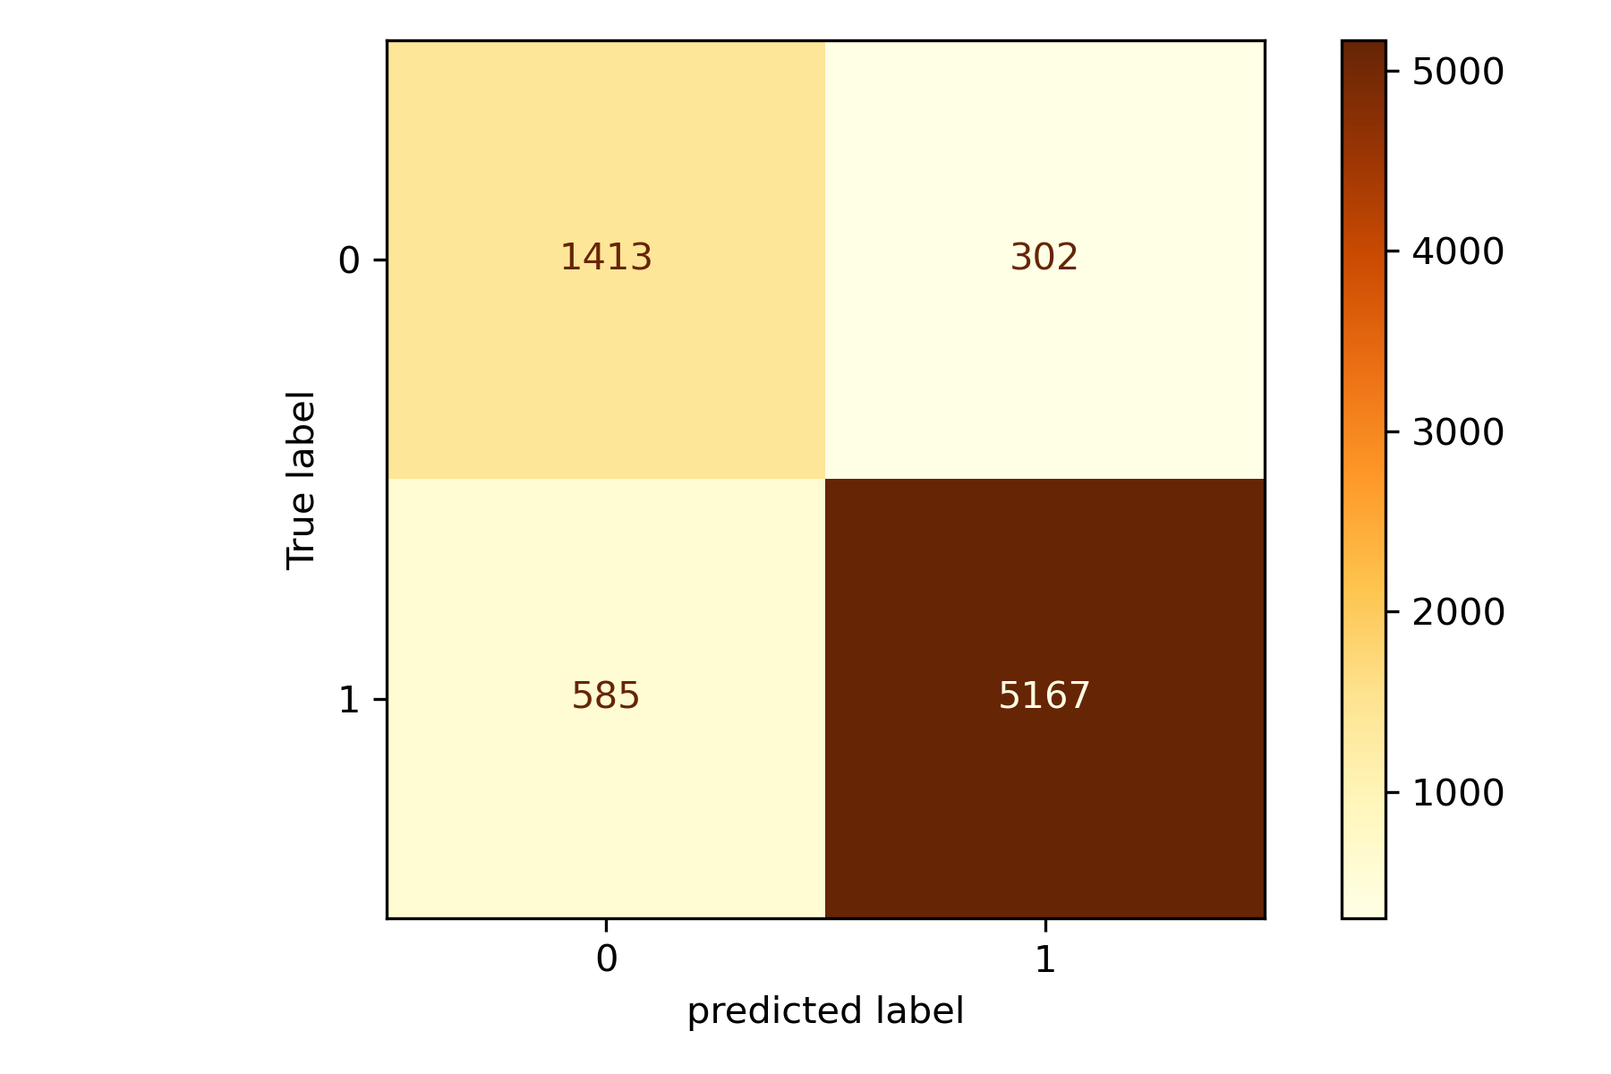
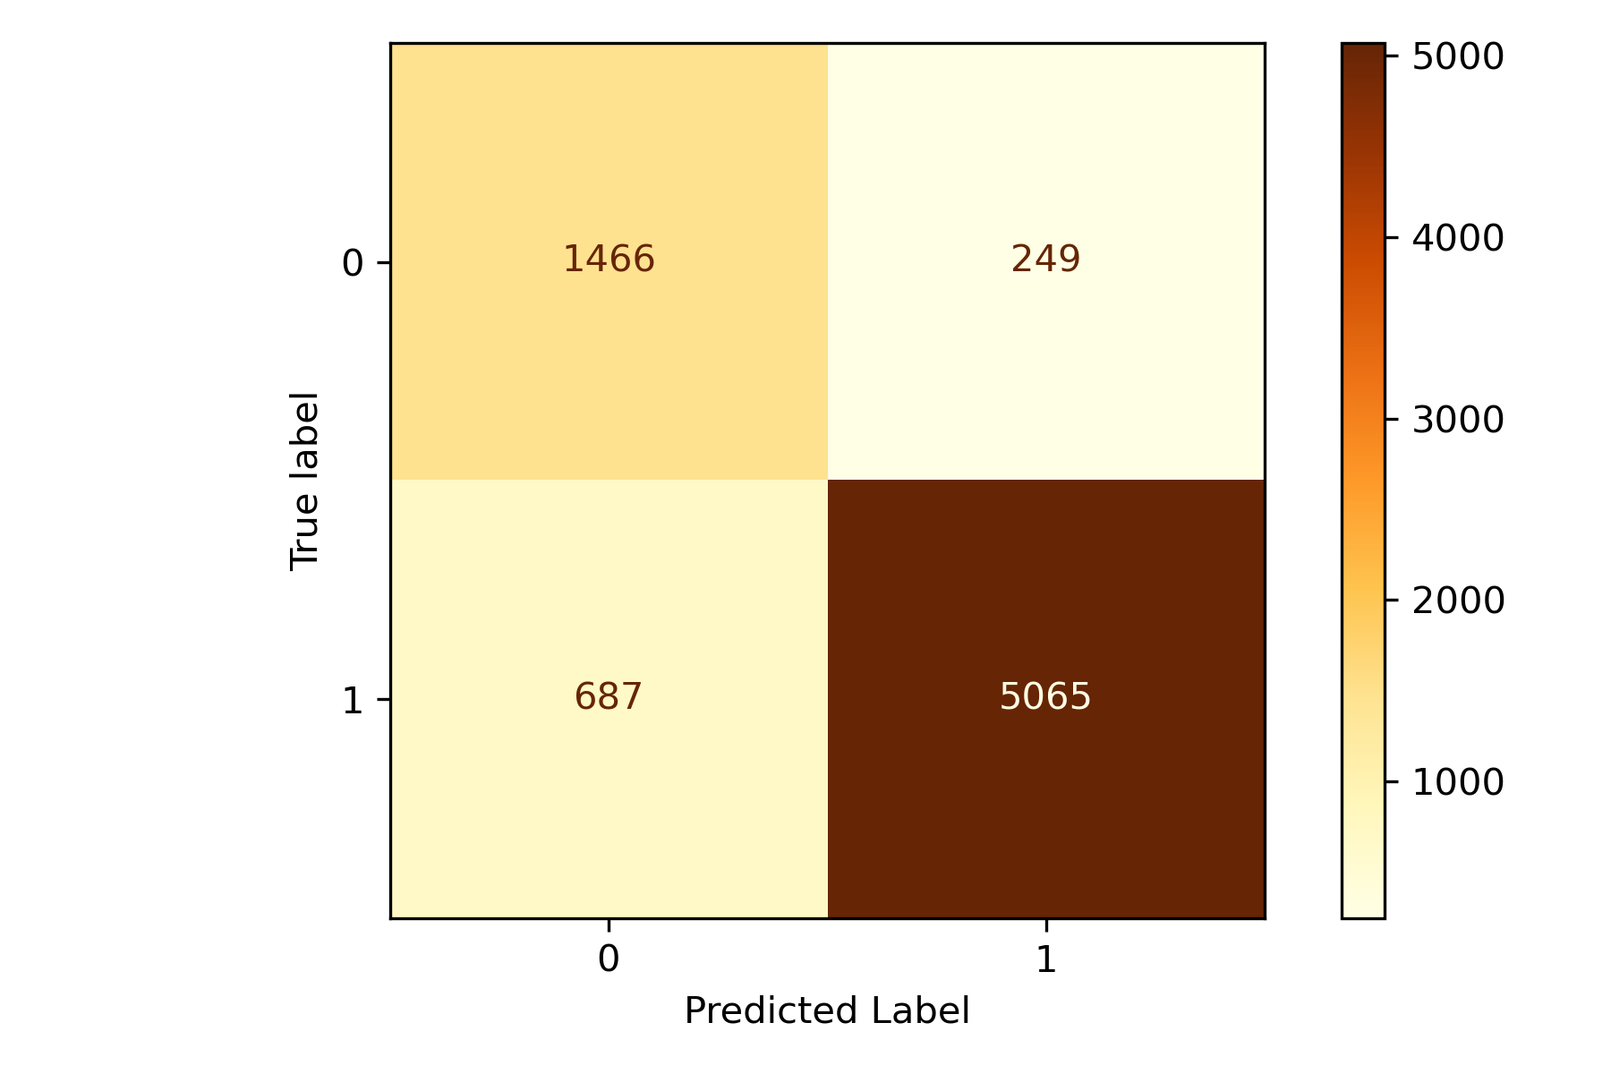
First Draft Complete

diff --git a/content/posts/ml/classification.md b/content/posts/ml/classification.md
@@ -1,5 +1,5 @@
-Title: Predict a Product Rating Using Only the Review’s Text
-Subtitle: Utilize Machine Learning Classification Models on Text to Classify Product Reviews
+Title: A Comprehensive Guide to Binary Classification
+Subtitle: How to Properly Build a Machine Learning Classification Model on Text to Classify Product Reviews
 Date: 2022-01-22
 Modified: 2022-01-22
 Status: draft
@@ -20,11 +20,51 @@ There are two general types of supervised machine learning outcomes in their sim
 
 You want to take several steps when preparing data for machine learning. You want to clean the data removing unwanted characters or numbers, you want to remove stop words, or words that appear too frequently, and you also should *stem*, or *lemmatize* words, which takes words such as *running* and *runs* and brings them to their root form of *run*. Additionally, you might want to create new columns or features that aid your machine learning classification process. For this example, we will use the dataset of [Women’s E-Commerce Clothing Reviews on Kaggle](https://www.kaggle.com/nicapotato/womens-ecommerce-clothing-reviews).
 
-Before we start cleaning, let's import the data and create a few key features:
+As always, let's load all the libraries we need to perform this analysis:
 
-1. Since we're performing binary classification, our **target** variable needs to be `1` or `0`. In a five-star review system, we can take the `4` and `5` star reviews and make them **positive** and then let the remainder, `1`, `2`, and `3` star reviews be **negative**.
-2. This particular set of reviews has both a **title* and a *body**. We can combine these two columns into a single new column called **Text**to simplify our processing.
-3. As another feature in our model, we can create a new column representing the review text's **total length**.
+```python
+# Gereral Imports
+import numpy as np
+import pandas as pd
+import re
+import string
+from timeit import timeit
+
+# Machine Learning Imports
+from sklearn.model_selection import train_test_split
+from sklearn.metrics import ConfusionMatrixDisplay
+from sklearn.feature_extraction.text import TfidfVectorizer
+from sklearn import metrics 
+from sklearn.model_selection import cross_val_score
+from sklearn.model_selection import RepeatedStratifiedKFold
+from sklearn.linear_model import LogisticRegression
+from sklearn.ensemble import RandomForestClassifier
+from sklearn.preprocessing import MinMaxScaler
+from sklearn.compose import ColumnTransformer
+from sklearn.pipeline import Pipeline
+
+# Model Persistence Imports
+from joblib import dump, load
+
+# Test Processing Imports
+import nltk
+from nltk.stem import PorterStemmer
+
+# Plotting Imports
+import matplotlib.pyplot as plt
+%matplotlib inline
+```
+
+## Feature Engineering
+
+This dataset contains reviews, ratings, department names, and the person's age who wrote the review. The rating system is a classic 1-5 star system. Before cleaning, let's import the data and create a few key columns that we will use in our model, also known as **Feature Engineering**. We'll use the `read_csv` function to read the data and create a `dataframe` called `df`.
+
+1. Since we're performing binary classification, our **Target** variable needs to be `1` or `0`. In a five-star review system, we can take the `4` and `5` star reviews and make them **Positive Class** and then let the remainder, `1`, `2`, and `3` star reviews be **Negative Class**.
+2. This particular set of reviews has both a **Title** and a **Review Text** field. We can combine these two columns into a new column called **Text** to simplify our processing.
+3. As another feature in our model, we can create a new column representing the review text's **Total Length**.
+
+**Note**: *One step I'm not showing here is EDA or Exploratory Data Analysis. I suggest you always do this before building a model. You can find my process in my post [Exploratory Data Analysis]((({filename}eda.md))).*
+
 
 
 ```python
@@ -40,6 +80,8 @@ df['Text'] = df['Title'] + ' ' + df['Review Text']
 # Create a new column that is the length of the next text field
 df['text_len'] = df.apply(lambda row: len(row['Text']), axis = 1)
 ```
+
+## Cleaning the Text
 
 Next, we need to clean the text. I've created a function adapted to almost any NLP cleaning situation. Let's take a look at the text before text:
 
@@ -87,11 +129,11 @@ df['Text_Processed'] = df['Text'].apply(lambda x: process_string(x))
 'love dress sooo pretti happen find store im glad bc never would order onlin bc petit bought petit  love length hit littl knee would definit true midi someon truli petit'
 ```
 
-We can see that the string is perfectly clean, free of numbers, punctions, stop words, and the words are stemmed from their most simple forms. We're ready to start building our model! 
+We can see that the string is perfectly clean, free of *numbers*, *punctions*, *stop words*, and the words are *stemmed* into their most simple forms. We're *almost* ready to start building our model! 
 
 ## Testing for Imbalanced Data
 
-We must understand if our dataset is *imbalanced* between the two classes in our Target. We can do this quickly with one line of code from Pandas. Imbalanced data is where one class has far more (or fewer) observations than the other. When we train our model, the result will be that the model will be biased towards the class with the most observations. This bias is called *overfitting* and is a common problem with machine learning.
+We must understand if our dataset is **imbalanced** between the two classes in our Target. We can do this quickly with one line of code from Pandas. Imbalanced data is where one class has far more observations than the other. When we train our model, the result will be that the model will be biased towards the class with the most observations.
 
 ```python
 df['Target'].value_counts()
@@ -102,36 +144,38 @@ df['Target'].value_counts()
 Name: Target, dtype: int64
 ```
 
-That is good enough to let us know that **we do have imbalanced data**. There is three times the number of positive class `1` observations versus the negative class `0`. We will have to make sure that we handle this appropriately in our model. I'll cover a couple of different ways in this article. 
+That is good enough to let us know that **the data is imbalanced**. There is three times the number of positive class `1` observations versus the negative class `0`. We will have to make sure that we handle the imbalance appropriately in our model. I'll cover a couple of different ways in this article. 
 
 ## Model Selection
 
-When building a machine learning model, a best practice is to perform what is known as **Model Selection**. Model select lets you test different algorithms on your data and determine which performs best. First, we will split our dataset into `X` and `y` datasets. `X` represents all of the features of our model, and `y` will represent the target variable. The target is the variable we're trying to predict.
+When building a machine learning model, a best practice is to perform as **Model Selection**. Model Selection lets you test different algorithms on your data and determine which performs best. First, we will split our dataset into `X` and `y` datasets. `X` represents all of the features of our model, and `y` will represent the target variable. The target is the variable we're trying to predict.
 
 ```python
-X = df[['Text', 'text_len']]
+X = df[['Text_Processed', 'text_len']]
 y = df['Target']
 ```
 
-Next, we're going to use a column transformer. A column transformer allows us to preprocess data in any number of ways that are appropriate for our model. There are *many* different ways to transform your data, and I'll not cover them all here, but let me explain the two we're using.
+Next, we're going to use a **Column Transformer**. A column transformer allows us to preprocess data in any number of ways that are appropriate for our model. There are *many* different ways to transform your data, and I'll not cover them all here, but let me explain the two we're using.
 
-* **TfidfVectorizer**: the TF-IDF vectorizer transforms text into numeric values. For a great descripion of this, check out my post on [BoW and TF-IDF](({filename}../nlp/bowtfidf.md)). Here we're transforming our `Text` column.
+* **TfidfVectorizer**: the TF-IDF vectorizer transforms text into numeric values. For a great descripion of this, check out my post on [BoW and TF-IDF](({filename}../nlp/bowtfidf.md)). Here we're transforming our `Text_Processed` column.
 * **MinMaxScaler**: This transforms all numeric values into a range between `0` and `1`. Most ML algorithms do not handle data with a wide range of values; it's always a best practice to scale your data. You can read more about this on Scikit-Learn's [documentation](https://scikit-learn.org/stable/modules/preprocessing.html). Here we're scaling our `text_len` column.
 
 ```python
 def col_trans():
     column_trans = ColumnTransformer(
-            [('Text', TfidfVectorizer(), 'Text'),
+            [('Text', TfidfVectorizer(), 'Text_Processed'),
              ('Text Length', MinMaxScaler(), ['text_len'])],
             remainder='drop') 
     
     return column_trans
 ```
 
-Next we have a function for creating a [Pipeline](({filename}sklearnpipelines.md)). A Pipeline allows us to consistently preprocess our data and ally various additional steps in a single workflow. Let's break down what's happening below.
+Next we have a function for creating a [Pipeline](({filename}sklearnpipelines.md)). A Pipeline allows us to consistently preprocess our data and connect various additional steps in a sequential workflow. Let's break down what's happening below.
 
 1. **Prep**: This is the column transformer from above. It's going to vectorize our text and scale our text length.
 2. **CLF**: This is where we choose an instance of our classifier. You can see that this is passed into our function, and we do it like this so that we can test different classifiers with the same data.
+
+**Note**: *An instance of a classifier is simply the class itself. For example, `LogisticRegression()` is an instance of `LogisticRegression`.*
 
 ```python
 def create_pipe(clf):
@@ -146,11 +190,11 @@ def create_pipe(clf):
     return pipeline
 ```
 
-Now it's time to **Cross Validate** a couple of classifiers. Cross-validation is the process of partitioning data into *n* number of different splits, which you then validate your model against. This is so important because, in some cases of a train-test split, the observations it learns off of in the train set might not represent the observations in the test set, and therefore, you avoid this but running through different slices of the data. Read more about this on [Scikit-Learn's documentation](https://scikit-learn.org/stable/modules/cross_validation.html).
+Now it's time to **Cross Validate** two classifiers. Cross-validation is the process of partitioning data into *n* number of different splits, which you then use to validate your model. Cross-Validation is so important because, in some cases, the observations it learns from in the train set might not represent the observations in the test set. Therefore, you avoid this by running through different data slices. Read more about this on [Scikit-Learn's documentation](https://scikit-learn.org/stable/modules/cross_validation.html).
 
-**Important**: One thing I want to bring special attention to below is [**RepeatedStratifiedKFold**](https://scikit-learn.org/stable/modules/generated/sklearn.model_selection.RepeatedStratifiedKFold.html) for cross-validation. A *Stratified* cross validator will ensure in the case of *imbalanced* data that the partitions *preserve relative class frequencies* in the split.
+**Important**: *One thing I want to bring special attention to below is [**RepeatedStratifiedKFold**](https://scikit-learn.org/stable/modules/generated/sklearn.model_selection.RepeatedStratifiedKFold.html) for cross-validation. A *Stratified* cross validator will ensure in the case of *imbalanced* data that the partitions *preserve relative class frequencies* in the split.*
 
-Finally, regarding how we're dealing with imbalanced data, we will use a classifier that supports the `class_weight` parameter. A handful of models from Scikit-Learn support this, and simply by setting the value to `balanced`, we can account for imbalanced data. There are other methods, such as SMOTE, but this is a great place to start. You can read more about [working with imbalanced data](({filename}imbalanced.md)) from my other post.
+Finally, we will use a classifier that supports the `class_weight` parameter regarding how we're dealing with imbalanced data. A handful of models from Scikit-Learn support this, and simply by setting the value to `balanced`, we can account for imbalanced data. Other methods include [SMOTE](https://www.jair.org/index.php/jair/article/view/10302), but this is a great place to start. You can read more about [working with imbalanced data](({filename}imbalanced.md)) from my other post.
 
 ```python
 models = {'LogReg' : LogisticRegression(random_state=42, 
@@ -166,7 +210,7 @@ for name, model, in models.items():
     cv = RepeatedStratifiedKFold(n_splits=10, 
                                  n_repeats=3, 
                                  random_state=1)
-    scores = cross_val_score(pipeline, X, y, 
+    %time scores = cross_val_score(pipeline, X, y, 
                              scoring='f1_weighted', cv=cv, 
                              n_jobs=-1, error_score='raise')
     print(name, ': Mean f1 Weighted: %.3f and StdDev: (%.3f)' % \
@@ -174,25 +218,29 @@ for name, model, in models.items():
 ```
 
 ```text
-LogReg : Mean f1 Weighted: 0.879 and Standard Deviation: (0.005)
-RandomForest : Mean f1 Weighted: 0.845 and Standard Deviation: (0.006)
+CPU times: user 23.2 s, sys: 10.7 s, total: 33.9 s
+Wall time: 15.5 s
+LogReg : Mean f1 Weighted: 0.878 and Standard Deviation: (0.005)
+CPU times: user 3min, sys: 2.35 s, total: 3min 2s
+Wall time: 3min 2s
+RandomForest : Mean f1 Weighted: 0.824 and Standard Deviation: (0.008)
 ```
 
 In the above function, you can see that scoring is done with `f1_weighted`. Choosing the right metric is a whole discussion that is critical to understand. I've written about how to choose the right [evaluation metric](({filename}modeleval.md)). 
 
-Here is a quick explanation of why I chose this metric. First, we have Imbalanced data, and we **never** want to use `accuracy` as our metric. Accuracy on imbalanced data will give you a false sense of success, but practice will only tell about the class with more observations. In some projects, you might want to make sure you have no false positives, and in others, you may want to ensure you have a better prediction of true positives. 
+Here is a quick explanation of why I chose this metric. First, we have Imbalanced data, and we **never** want to use `accuracy` as our metric. Accuracy on imbalanced data will give you a false sense of success, but accuracy will bias the class with more observations. There is also `precision` and `recall` which will help you minimize false positives (precision) or minimize false negatives (recall). Depending on the outcomes you want to optimize for, you might choose one of these.
 
-Second, we don't prefer to predict positive reviews versus negative reviews in this case, so I've chosen the `F1` score. `F1` by definition, is the harmonic mean of Precision and Recall combining them into a single metric. However, there is also a way to tell this metric to score imbalanced data with the `weighted` flag. As the [Sciki-learn](https://scikit-learn.org/stable/modules/generated/sklearn.metrics.f1_score.html) documentation states:
+Since we don't prefer to predict positive reviews versus negative reviews, in this case, I've chosen the `F1` score. `F1` by definition, is the harmonic mean of Precision and Recall combining them into a single metric. However, there is also a way to tell this metric to score imbalanced data with the `weighted` flag. As the [Sciki-learn](https://scikit-learn.org/stable/modules/generated/sklearn.metrics.f1_score.html) documentation states:
 
 >*Calculate metrics for each label and find their average weighted by support (the number of true instances for each label). This alters ‘macro’ to account for label imbalance; it can result in an F-score between precision and recall.*
 
-Based on these results, we can see that the `LogisticRegression` classifier performs slightly better and is much faster. Therefore we can move forward and train our model with it.
+Based on these results, we can see that the `LogisticRegression` classifier performs slightly better and is much faster, **15 seconds** versus **3 minutes**. Therefore we can move forward and train our model with it.
 
-Again, please read my full explanation of [evaluation metric](({filename}modeleval.md)) to give you a better sense of which one to use and when.
+Again, please read my full explanation of [Model Evaluation](({filename}modeleval.md)) to give you a better sense of which one to use and when.
 
 ## Model Training and Validation
 
-We're finally here! It's time to train our final model and validate it. We'll split our data into **training** and **test** data sets since we didn't do this yet when we used Cross-Validation above. You never want to train your data on *all* of your data, but rather leave a portion out for testing. Whenever a model has seen data during training, it will know that data and cause *overfitting*. Overfitting is a problem where a model is too good at predicting the data it has seen and is not generalizable to new data.
+We're finally here! It's time to train our final model and validate it. We'll split our data into **training** and **test** partitions since we didn't do this when we performed *Cross-Validation* above. You never want to train your model on *all* of your data, but rather leave a portion out for testing. Whenever a model has seen all data during training, it will know the data and cause *overfitting*. Overfitting is a problem where a model is too good at predicting the data it has seen and is not generalizable to new data.
 
 ```python
 # Make training and test sets 
@@ -202,7 +250,7 @@ X_train, X_test, y_train, y_test = train_test_split(X,
                                                     random_state=53)
 ```
 
-Next, a quick function will fit our model and evaluate it with both a `classification_report` and a Confusion Matrix. I believe it's critical to run the classification report at a minimum, and it will show you each of your key evaluation metrics and tell you how the model performed. The Confusion Matrix is a great way to visualize the results.
+Next, a quick function will fit our model and evaluate it with a `classification_report` and a *Confusion Matrix* (CM). I believe it's critical to run the classification report along with the CM, and it will show you each of your key evaluation metrics and tell you how the model performed. The CM is a great way to visualize the results.
 
 ```python
 def fit_and_print(pipeline, name):
@@ -233,21 +281,35 @@ fit_and_print(pipeline, 'Logistic Regression')
 ```text
               precision    recall  f1-score   support
 
-           0      0.675     0.850     0.752      1715
-           1      0.951     0.878     0.913      5752
+           0      0.681     0.855     0.758      1715
+           1      0.953     0.881     0.915      5752
 
-    accuracy                          0.872      7467
-   macro avg      0.813     0.864     0.833      7467
-weighted avg      0.888     0.872     0.876      7467
+    accuracy                          0.875      7467
+   macro avg      0.817     0.868     0.837      7467
+weighted avg      0.891     0.875     0.879      7467
 ```
 
 ![Confusion Matrix]({static}../../images/posts/classification_1.png)  
 
-The results are in! The classification report shows us everything we need. Because we said we don't necessarily want to optimize for the positive or negative class, we will use the `f1_score` column. We can see the `0` class performed at `0.752` and the `1` class at `0.913`. Whenever you have imbalanced data, you can expect that the larger class will perform better, but you can use some of the above steps to increase the model's performance.
+The results are in! The classification report shows us everything we need. Because we said we don't necessarily want to optimize for the positive or negative class, we will use the `f1-score` column. We can see the `0` class performed at `0.758` and the `1` class at `0.915`. You can expect that the larger class will perform better whenever you have imbalanced data, but you can use some of the above steps to increase the model's performance.
+
+**92%** of the time, the model will correctly classify reviews for the positive class and **76% **of the time for the negative class. That's quite impressive by simply looking at the text a user has submitted for a review!
+
+## Persisting the Model
+
+We can easily persist our model for later use. Because we used a **pipeline** to build the model, we performed all of the necessary steps to preprocess our data and run the model. Persisting the model makes it easy for us to run it on a production server or load later and not train it again. After it's saved to disk, it's incredible that this model is less than `500KB` on disk!
+
+```python
+# Save the model to disk
+dump(pipeline, 'binary.joblib') 
+
+# Load the model from disk when you're ready to continue
+pipeline = load('binary.joblib')
+```
 
 ## Testing on New Data
 
-Now for a demonstration of what's truly the important part. How well does your model predict new observations it has never seen before? In production, this would be very different, but we can simulate it by creating a few new reviews for a quick example. I've also created a function that transforms a list of strings into the properly formatted dataframe with cleaned text and the `text_len` column.
+Now for a demonstration of what's truly the important part. How well does your model predict new observations it has never seen before? This process would be very different in production, but we can simulate it by creating a few new reviews for a quick example. I've also created a function that transforms a list of strings into the properly formatted data frame with cleaned text and the `text_len` column.
 
 ```python
 def create_test_data(x):
@@ -255,7 +317,7 @@ def create_test_data(x):
     x = process_string(x)
     length = len(x)
     
-    d = {'Text' : x,
+    d = {'Text_Processed' : x,
         'text_len' : length}
 
     df = pd.DataFrame(d, index=[0])
@@ -291,6 +353,9 @@ this item is too little and tight. = [0]
 
 ## Conclusion
 
+There you have it! An end-to-end example of building a binary classifier. It can be simple to build one in a few steps, but this post outlines the preferred steps you should use to *properly* build your classifier. We started with cleaning the data and some lightweight *Feature Engineering* followed by *Model Selection*, *Model Training*, and *Evaluation*, and finally, *Persisting the Model* and then testing it on new data. This workflow should work for almost any binary or multi-class classification problem. Enjoy and happy model building!
+
+*There are two other steps I left out of here which I'll cover at a later time.  **Feature Selection** and **Hyperparameter Tuning**.  Depending on the complexity of your data you will want to dig into Feature Selection and to squeeze out the most performace of your model check out Hyperparmeter Tuning.*
 
 All of the code for this post is available here in [GitHub](https://github.com/broepke/Classification)
 
